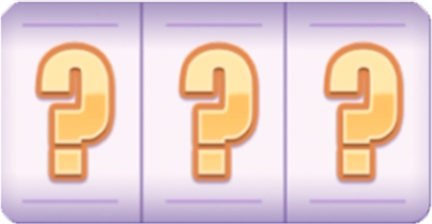
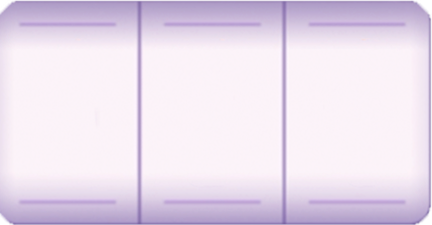
feat: add new assets and enhance score tracking in PlayView component

diff --git a/src/components/PlayView.vue b/src/components/PlayView.vue
@@ -1,7 +1,6 @@
 <script setup lang="ts">
-import { onMounted, ref } from "vue"
+import { computed, onMounted, ref } from "vue"
 import ad from "/audio/play_bgm.mp3"
-
 import { GameManager, KeyboardInputManager, HTMLActuator, LocalStorageManager } from "../libs/play"
 import { useRouter } from "vue-router"
 import { slideEnter } from "../utils"
@@ -12,14 +11,41 @@ import { useBgm } from "../hooks/useBgm"
 const router = useRouter()
 
 const isOver = ref(false)
+
 const showModal = ref(false)
+
+const score = ref(0)
+
+const targetScore = ref(20)
+
+const percent = computed(() => {
+  const num = Math.ceil((score.value / targetScore.value) * 100)
+  return Math.min(num, 100)
+})
+
+const isFinish = computed(() => {
+  const res = percent.value === 100
+  if (res) {
+    gsap.set(".target-score-success", { opacity: 0, width: "0rem", display: "block" })
+    gsap.to(".target-score-success", { opacity: 1, width: "2.56rem", duration: 0.6 })
+
+    gsap.set(".play-view-suc-tips", { display: "block" })
+    gsap.set(".play-view-suc-tips-bg", { transform: "translateX(100%)" })
+    gsap.set(".play-view-suc-tips-text", { opacity: 0 })
+    gsap.to(".play-view-suc-tips-bg", { transform: "translateX(0)", duration: 1 })
+    gsap.to(".play-view-suc-tips-text", { opacity: 1, duration: 1 })
+  }
+  return res
+})
 
 const handleGameOver = () => {
   isOver.value = true
   toggleModalState()
 }
 
-window.addEventListener("ganmeOver", throttle(handleGameOver, 1000, { trailing: false }))
+const handleUpdateScore = (e: any) => {
+  score.value = parseFloat(e.detail.score)
+}
 
 useBgm(ad)
 
@@ -40,7 +66,9 @@ const toggleModalState = async () => {
 
 onMounted(() => {
   window.requestAnimationFrame(function () {
-    new GameManager(4, KeyboardInputManager, HTMLActuator, LocalStorageManager)
+    const gameManager = new GameManager(4, KeyboardInputManager, HTMLActuator, LocalStorageManager)
+    window.addEventListener("ganmeOver", throttle(handleGameOver, 1000, { trailing: false }))
+    gameManager.actuator.scoreContainer?.addEventListener("updateScore", handleUpdateScore)
   })
 })
 
@@ -86,7 +114,16 @@ const onBack = async () => {
     <div class="right-top" @click="toggleModalState">
       <span class="right-top-txt">结束关卡</span>
     </div>
-    <div class="play-view-random-number"></div>
+    <div class="play-view-suc-tips">
+      <div class="play-view-suc-tips-bg"></div>
+      <div class="play-view-suc-tips-text">目标达成可随时结算</div>
+    </div>
+
+    <div class="play-view-random-number-wrap">
+      <div class="play-view-random-number" data-num="1"></div>
+      <div class="play-view-random-number"></div>
+      <div class="play-view-random-number"></div>
+    </div>
     <div class="cover-box"></div>
     <div class="right-bottom"></div>
 
@@ -98,6 +135,16 @@ const onBack = async () => {
           <div class="score-container">0</div>
           <div class="best-container" style="display: none">0</div>
           <div class="score-label-2" data-text="目标电费">目标电费</div>
+          <div class="target-score-wrap">
+            <div
+              class="target-score-progress"
+              :style="{ clipPath: `inset(0 ${100 - percent}% 0 0)` }"
+            ></div>
+            <div class="target-score-success"></div>
+            <span class="target-score" :data-text="isFinish ? '已达成' : targetScore">{{
+              isFinish ? "已达成" : targetScore
+            }}</span>
+          </div>
         </div>
       </div>
 
@@ -153,11 +200,15 @@ const onBack = async () => {
       <div class="play-view-modal-body-content">
         <div class="play-view-modal-body-content-row-1">
           <div class="play-view-modal-body-content-text" data-text="当前电费">当前电费</div>
-          <div class="play-view-modal-body-content-value" data-text="32131230">32131230</div>
+          <div class="play-view-modal-body-content-value" :data-text="score">
+            {{ score }}
+          </div>
         </div>
         <div class="play-view-modal-body-content-row-2">
           <div class="play-view-modal-body-content-text" data-text="目标电费">目标电费</div>
-          <div class="play-view-modal-body-content-value" data-text="32131230">32131230</div>
+          <div class="play-view-modal-body-content-value" :data-text="targetScore">
+            {{ targetScore }}
+          </div>
         </div>
         <div class="play-view-modal-body-content-tips">
           <div class="play-view-modal-body-content-tips-txt">
@@ -212,6 +263,7 @@ const onBack = async () => {
   right: 2.8rem;
   width: 4.2rem;
   height: 1.8rem;
+  z-index: 3;
   cursor: pointer;
   background-size: 100% auto;
   background-repeat: no-repeat;
@@ -224,15 +276,91 @@ const onBack = async () => {
     color: #312d2e;
   }
 }
-.play-view-random-number {
+.play-view-suc-tips {
+  display: none;
+  position: absolute;
+  top: 0.84rem;
+  right: 6.54rem;
+  width: 3.2rem;
+  height: 1.8rem;
+
+  .play-view-suc-tips-bg {
+    position: absolute;
+    top: 0;
+    left: 0;
+    right: 0;
+    bottom: 0;
+    background-size: 100% auto;
+    background-repeat: no-repeat;
+    background-image: url(../assets/play_suc_bg.png);
+  }
+
+  .play-view-suc-tips-text {
+    position: absolute;
+    font-size: 0.22rem;
+    color: #507012;
+    top: 0.24rem;
+    left: 0.85rem;
+  }
+}
+.play-view-random-number-wrap {
   position: absolute;
   top: 4.12rem;
   right: 4.36rem;
   width: 4.26rem;
-  height: 2.5rem;
+  height: 2.26rem;
   background-size: 100% auto;
   background-repeat: no-repeat;
   background-image: url(../assets/random_number.png);
+
+  .play-view-random-number {
+    position: absolute;
+    width: 0.9rem;
+    height: 1.7rem;
+    top: 0.3rem;
+    background-size: 100% auto;
+    background-repeat: no-repeat;
+    background-position: 0 -0.5rem;
+    background-image: url(../assets/play_random_num.png);
+    transform: scaleY(0.88);
+
+    &:nth-child(1) {
+      left: 0.3rem;
+    }
+    &:nth-child(2) {
+      left: 1.68rem;
+    }
+    &:nth-child(3) {
+      left: 3.1rem;
+    }
+    &[data-num="1"] {
+      background-position: 0rem -5.7rem;
+    }
+    &[data-num="2"] {
+      background-position: 0rem -8.3rem;
+    }
+    &[data-num="3"] {
+      background-position: 0rem -10.9rem;
+    }
+    &[data-num="4"] {
+      background-position: 0rem -13.56rem;
+    }
+    &[data-num="5"] {
+      background-position: 0rem -16.15rem;
+    }
+    &[data-num="6"] {
+      background-position: 0rem -18.8rem;
+    }
+    &[data-num="7"] {
+      background-position: 0rem -21.4rem;
+    }
+    &[data-num="8"] {
+      background-position: 0rem -24.04rem;
+    }
+    &[data-num="9"] {
+      background-position: 0rem -26.65rem;
+    }
+  }
 }
 .cover-box {
   position: absolute;
@@ -325,7 +453,7 @@ const onBack = async () => {
   position: absolute;
   font-size: 0.28rem;
   color: #fff;
-  top: 2.17rem;
+  top: 2.1rem;
   left: 4.6rem;
 
   &::after {
@@ -333,8 +461,62 @@ const onBack = async () => {
     position: absolute;
     top: 0;
     left: 0;
-    color: #5d497c;
+    color: #8470a6;
     filter: url(#stroke-text-svg-filter-1);
+  }
+}
+
+.target-score-wrap {
+  position: absolute;
+  top: 2.1rem;
+  right: 1.4rem;
+  width: 2.28rem;
+  height: 0.4rem;
+  background-size: 100% auto;
+  background-repeat: no-repeat;
+  background-image: url(../assets/play_pg_bg.png);
+
+  .target-score-progress {
+    position: absolute;
+    top: 0.09rem;
+    left: 0.1rem;
+    right: 0.1rem;
+    height: 0.25rem;
+    background-size: 100% auto;
+    background-repeat: no-repeat;
+    background-image: url(../assets/play_pg_val.png);
+  }
+
+  .target-score-success {
+    display: none;
+    opacity: 0;
+    position: absolute;
+    top: 0;
+    left: 0;
+    right: -0.28rem;
+    bottom: 0;
+    z-index: 1;
+    background-size: 2.56rem auto;
+    background-repeat: no-repeat;
+    background-image: url(../assets/play_pg_suc.png);
+  }
+
+  .target-score {
+    position: absolute;
+    top: 0.06rem;
+    right: 0.18rem;
+    font-size: 0.24rem;
+    color: #fff;
+    z-index: 2;
+
+    &::after {
+      content: attr(data-text);
+      position: absolute;
+      top: 0;
+      right: 0;
+      color: #503d76;
+      filter: url(#stroke-text-svg-filter-1);
+    }
   }
 }
 

diff --git a/src/libs/play/game_manager.js b/src/libs/play/game_manager.js
@@ -39,25 +39,25 @@ GameManager.prototype.isGameTerminated = function () {
 
 // Set up the game
 GameManager.prototype.setup = function () {
-  var previousState = this.storageManager.getGameState()
+  // var previousState = this.storageManager.getGameState()
 
   // Reload the game from a previous game if present
-  if (previousState) {
-    this.grid = new Grid(previousState.grid.size, previousState.grid.cells) // Reload grid
-    this.score = previousState.score
-    this.over = previousState.over
-    this.won = previousState.won
-    this.keepPlaying = previousState.keepPlaying
-  } else {
-    this.grid = new Grid(this.size)
-    this.score = 0
-    this.over = false
-    this.won = false
-    this.keepPlaying = false
+  // if (previousState) {
+  //   this.grid = new Grid(previousState.grid.size, previousState.grid.cells) // Reload grid
+  //   this.score = previousState.score
+  //   this.over = previousState.over
+  //   this.won = previousState.won
+  //   this.keepPlaying = previousState.keepPlaying
+  // } else {
+  this.grid = new Grid(this.size)
+  this.score = 0
+  this.over = false
+  this.won = false
+  this.keepPlaying = false
 
-    // Add the initial tiles
-    this.addStartTiles()
-  }
+  // Add the initial tiles
+  this.addStartTiles()
+  // }
 
   // Update the actuator
   this.actuate()

diff --git a/src/libs/play/html_actuator.js b/src/libs/play/html_actuator.js
@@ -113,11 +113,15 @@ HTMLActuator.prototype.updateScore = function (score) {
   }
 
   var difference = score - this.score
-  this.score = formatNumber(score)
+  this.score = score
 
-  this.scoreContainer.textContent = this.score
+  this.scoreContainer.textContent = formatNumber(this.score)
 
   if (difference > 0) {
+    this.scoreContainer.dispatchEvent(
+      new CustomEvent("updateScore", { detail: { score: this.score } }),
+    )
+
     var addition = document.createElement("div")
     addition.classList.add("score-addition")
     addition.textContent = "+" + difference
